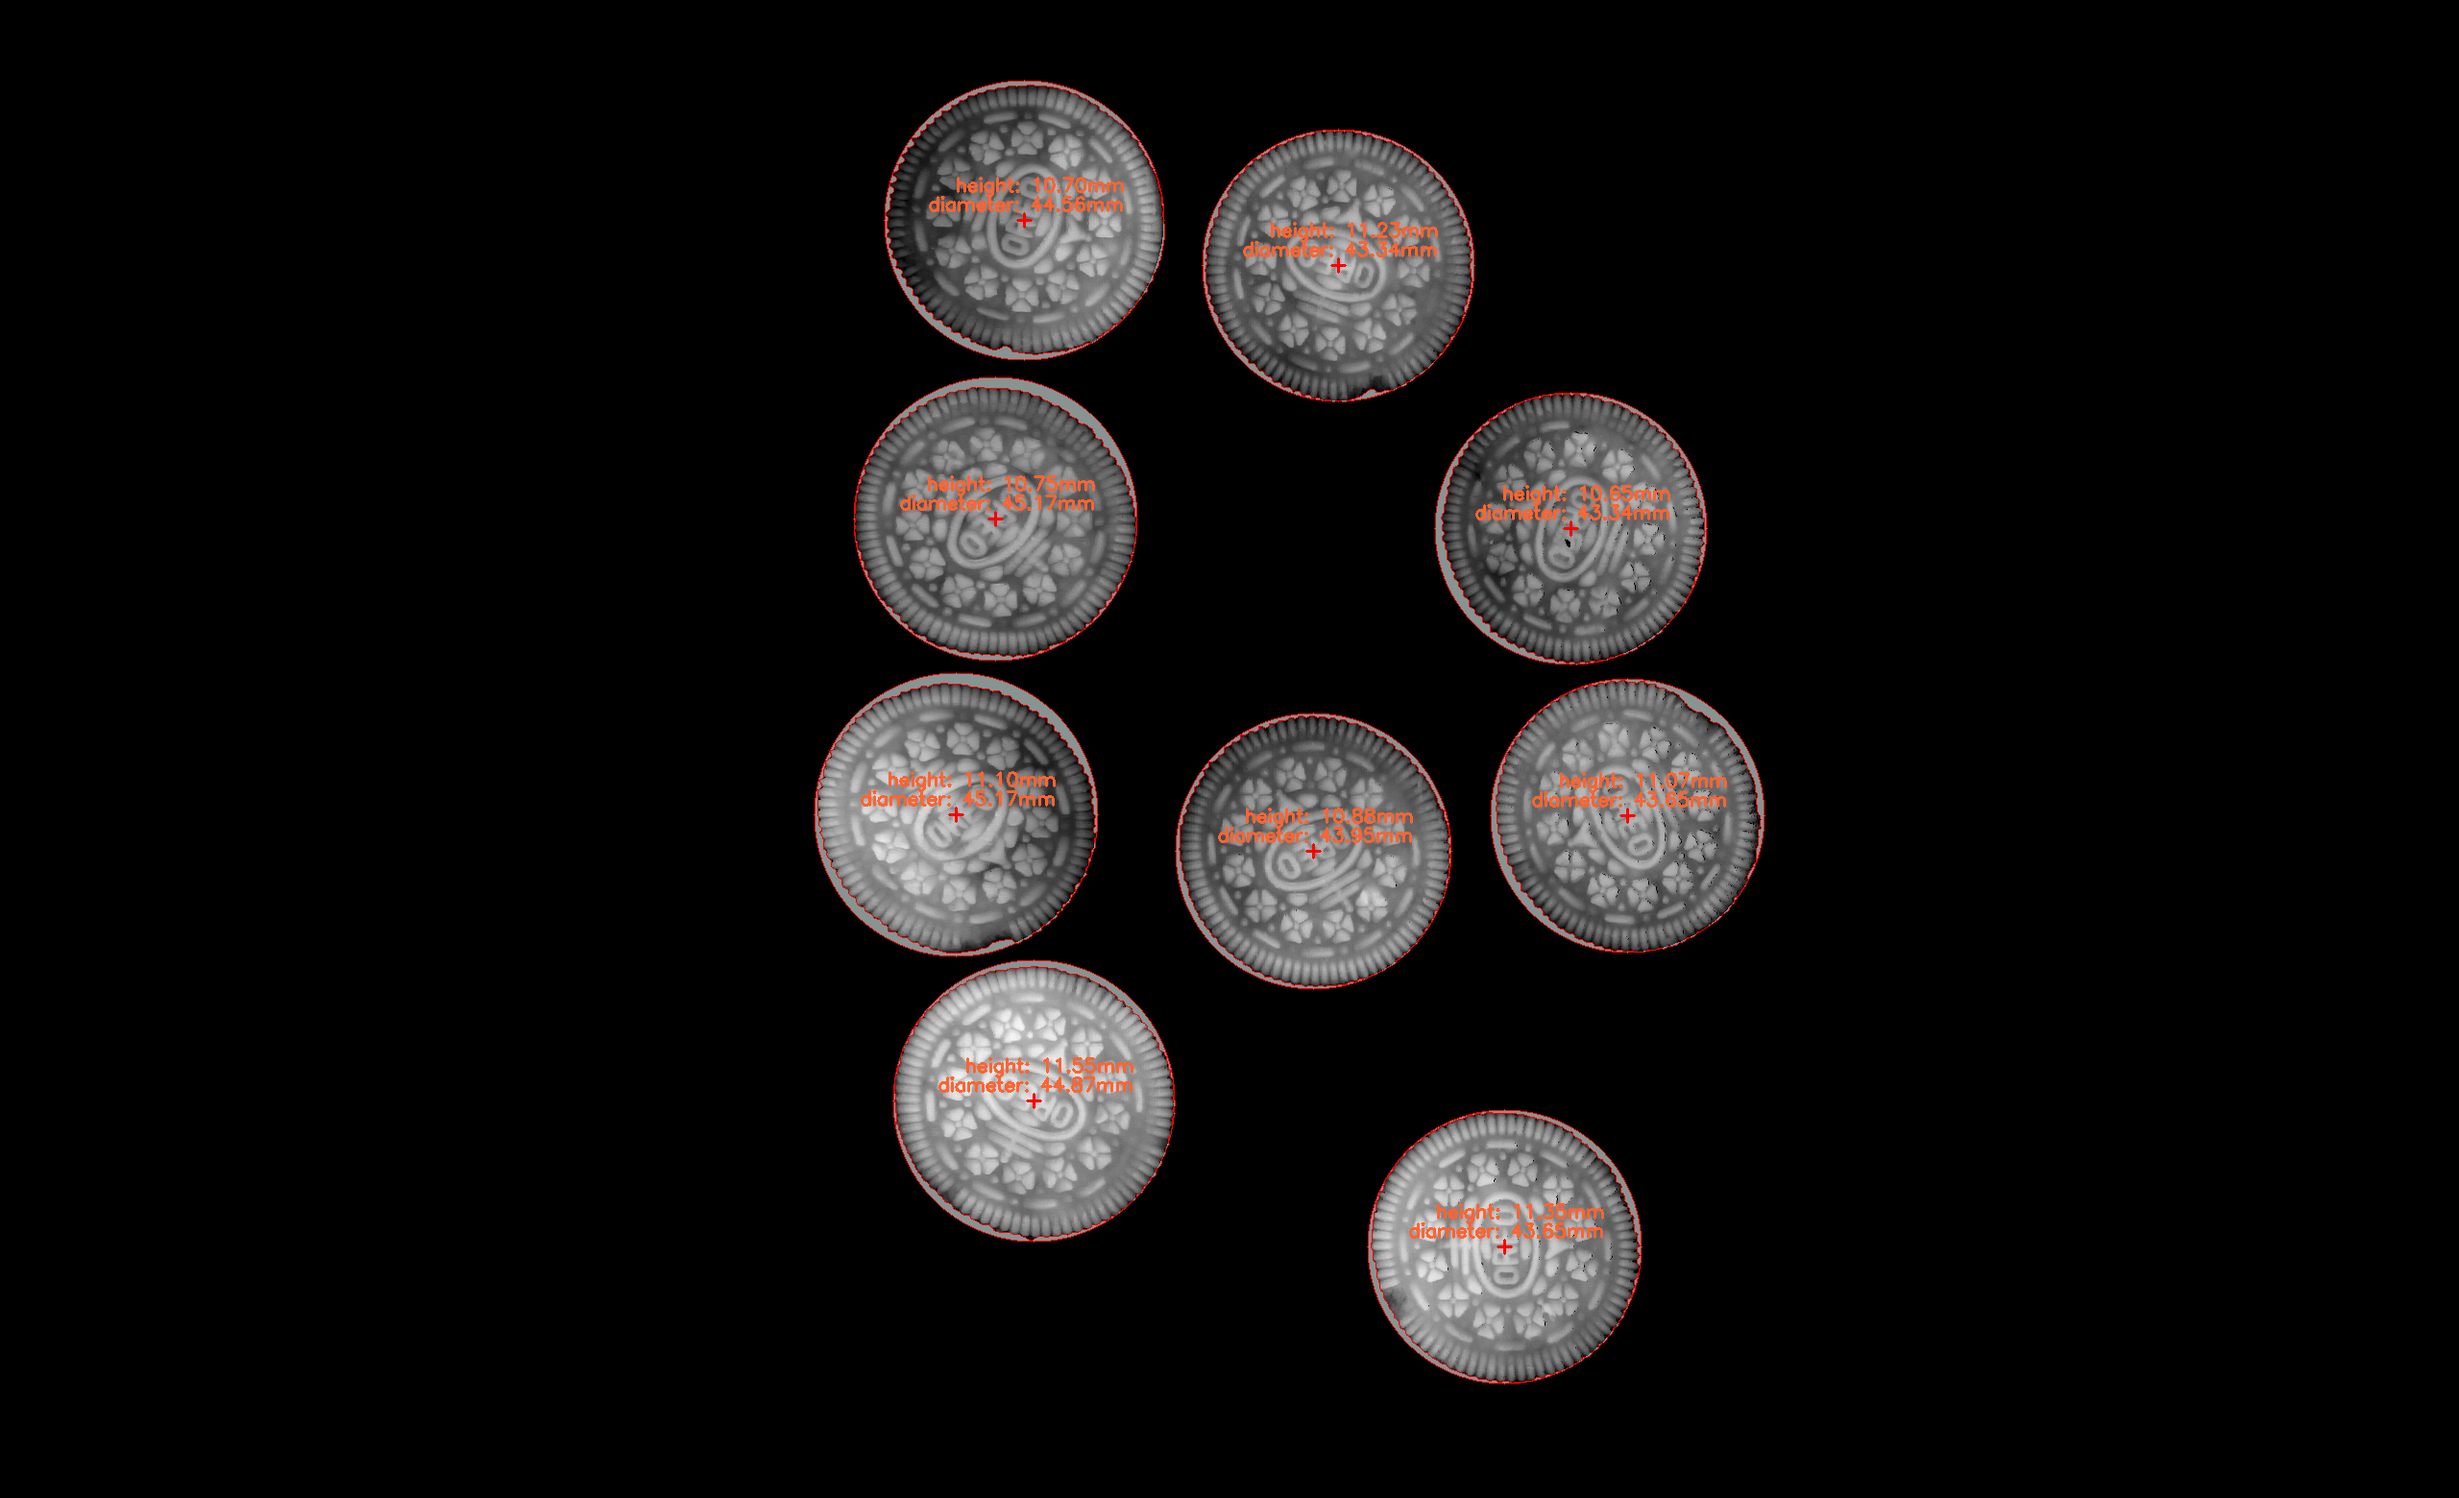
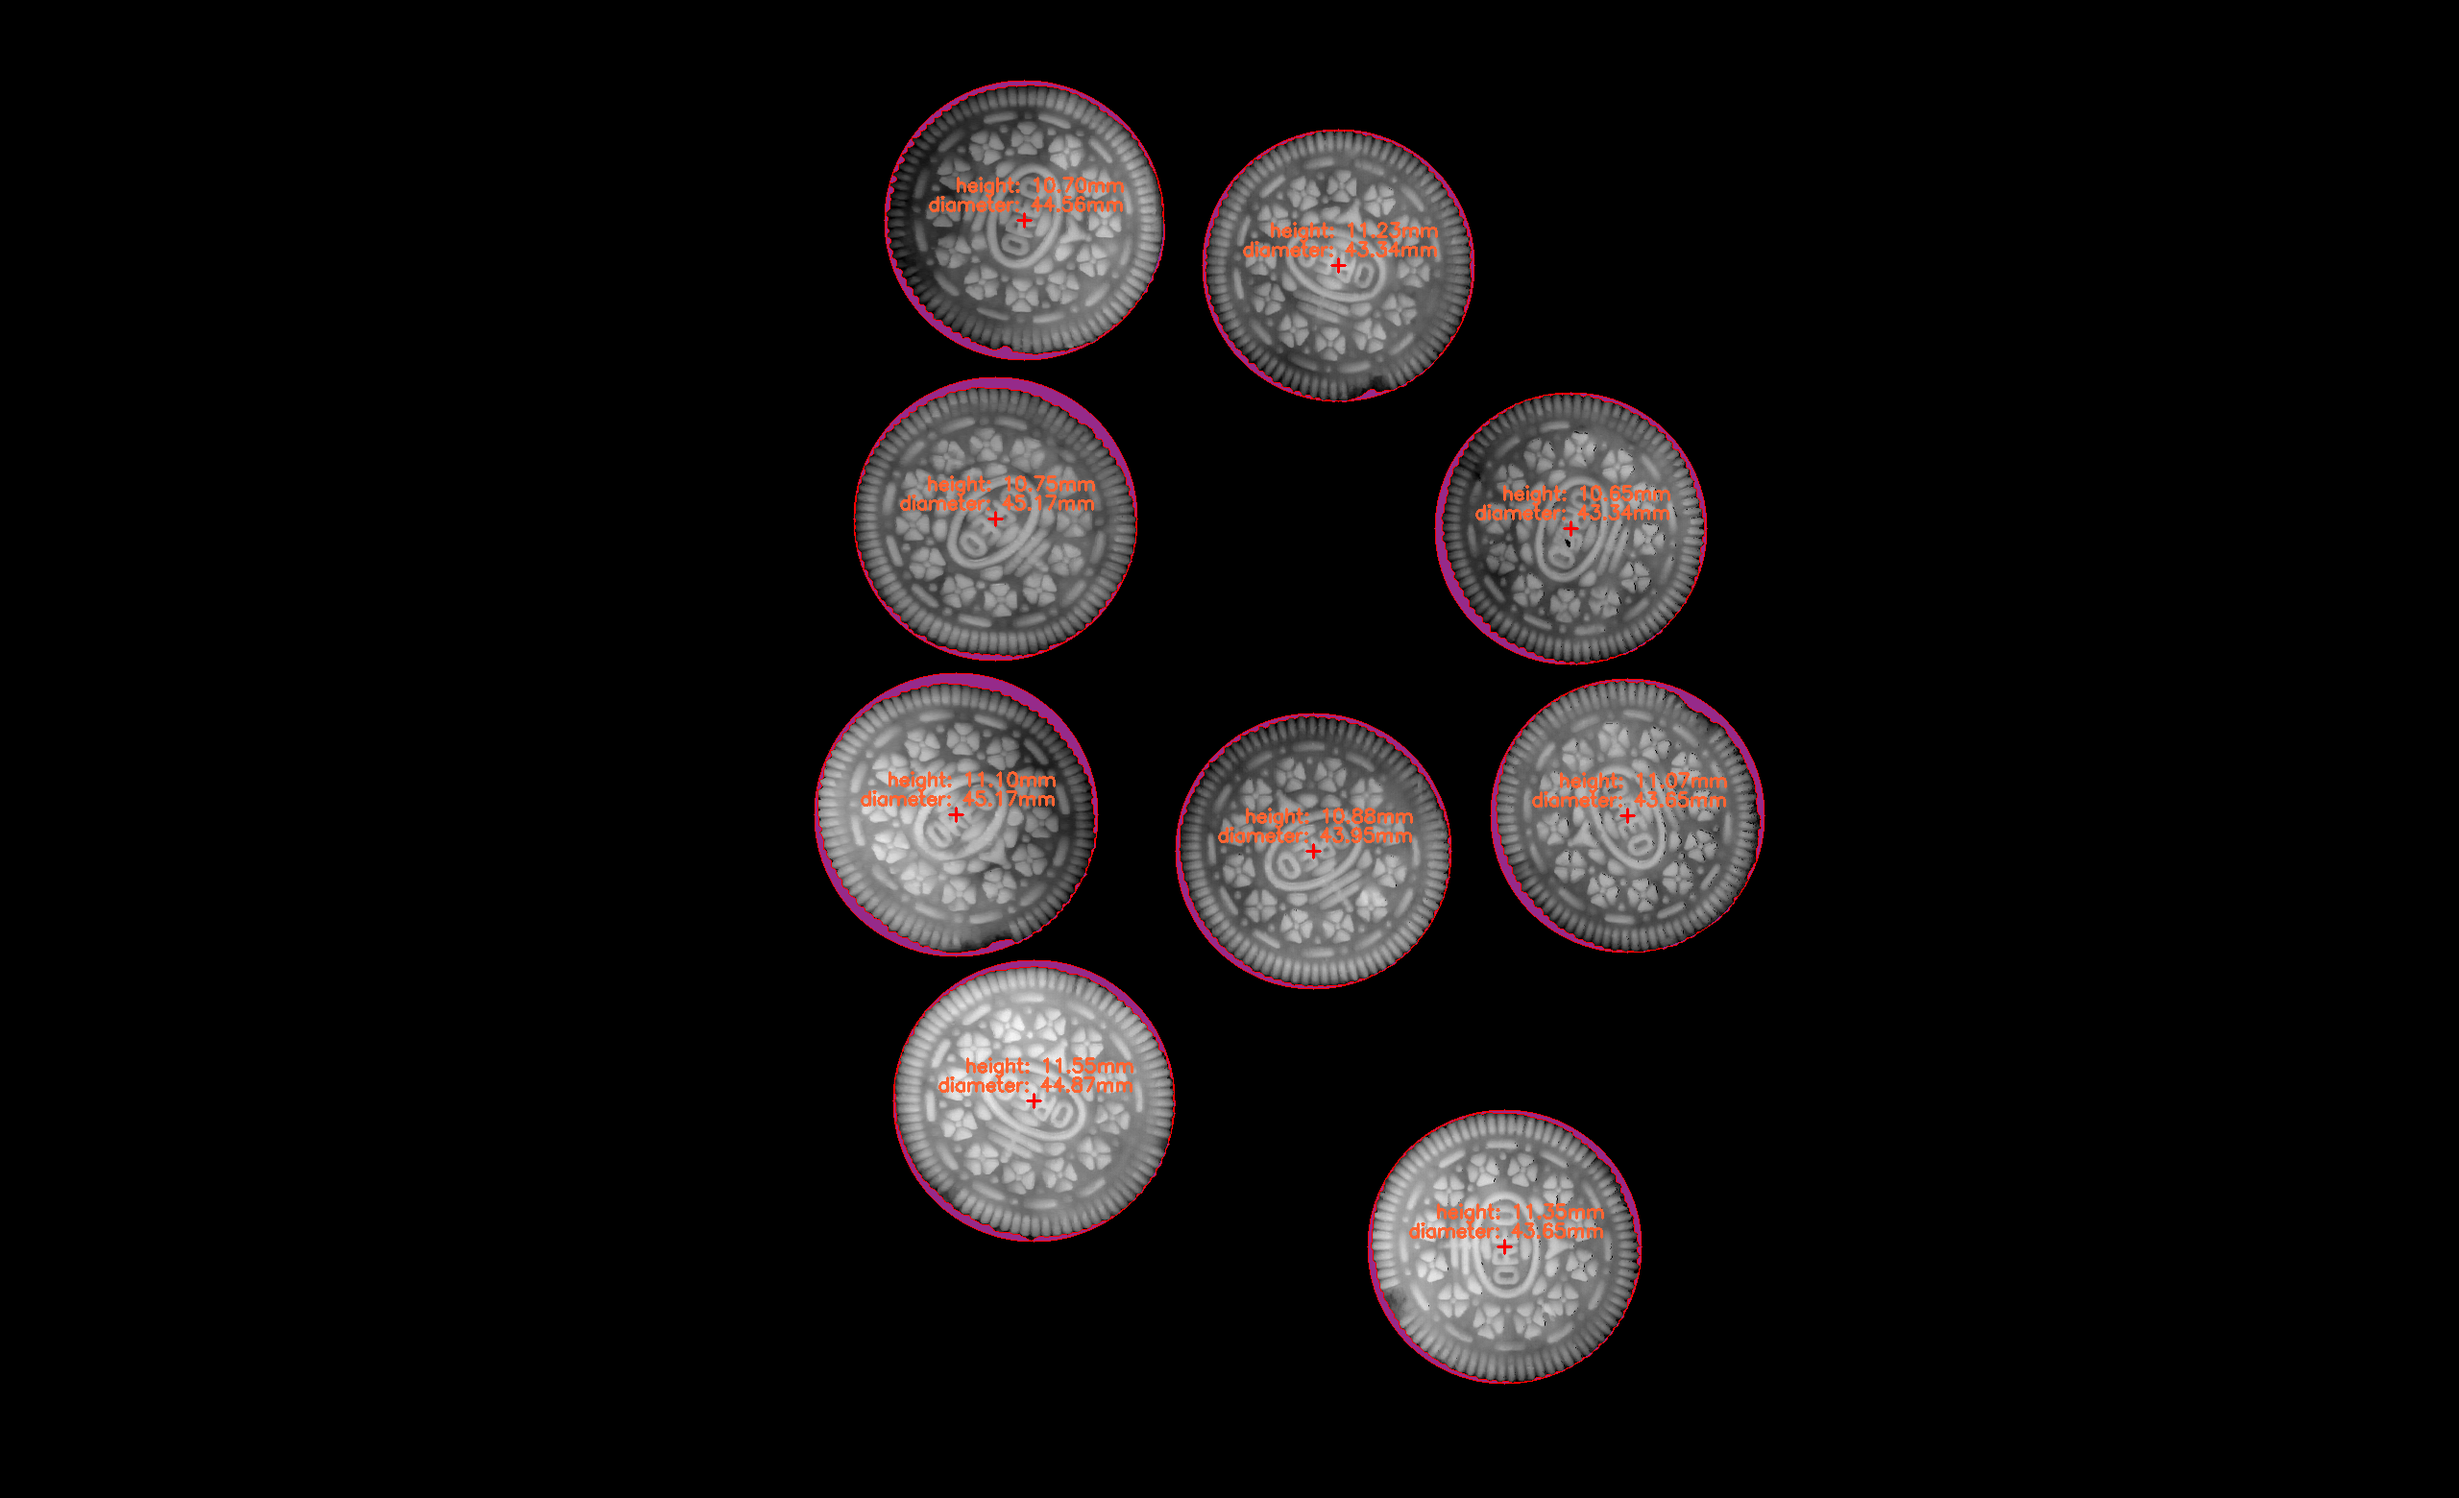
PPT展示用

diff --git a/project/3D相机二进制数据处理.py b/project/3D相机二进制数据处理.py
@@ -56,7 +56,7 @@ def dat2img(filename):
     return resized, img_height
 
 
-def demopreprocessing(img, img_height):
+def dimensionMeasurement(img, img_height):
     img_original = img.copy()
     img_uint8 = img.astype(np.uint8)  # 转换为整型
     img_info = img.shape
@@ -78,9 +78,8 @@ def demopreprocessing(img, img_height):
 
     # 寻找最外面的图像轮廓 返回修改后的图像 图像的轮廓  以及它们的层次
     contours, hierarchy = cv2.findContours(binary, cv2.RETR_EXTERNAL, cv2.CHAIN_APPROX_SIMPLE)
-
-    print('type(contours):', type(contours))
-    print('type(contours[0]):', type(contours[0]))
+    # print('type(contours):', type(contours))
+    # print('type(contours[0]):', type(contours[0]))
     print('len(contours):', len(contours))
 
     # 转换为RGB图
@@ -185,15 +184,15 @@ def demopreprocessing(img, img_height):
     cv2.waitKey()
     cv2.destroyAllWindows()
     cv2.imwrite(r'H:\GitHub\3DCamera\docs\photos\@output.png', output)
+    print('尺寸检测完成。')
 
 
-def pattern(img):
+def patternMeasurement(img):
     img_original = img.copy()
     img_uint8 = img.astype(np.uint8)  # 转换为整型
     img_info = img.shape
     image_height = img_info[0]
     image_weight = img_info[1]
-    # mask1 = np.zeros((img.shape[0], img.shape[1], 3), np.uint8)
 
     # 二值化处理:自适应，阈值取相邻区域的平均值
     adaptive1 = cv2.adaptiveThreshold(img_uint8, 255, cv2.ADAPTIVE_THRESH_MEAN_C, cv2.THRESH_BINARY, 11, 2)
@@ -219,23 +218,24 @@ def pattern(img):
 
     # 转换为RGB图
     img = np.zeros((img.shape[0], img.shape[1], 3), np.uint8)
-    img[:, :, 0] = adaptive1
-    img[:, :, 1] = adaptive1
-    img[:, :, 2] = adaptive1
+    img[:, :, 0] = img_uint8
+    img[:, :, 1] = img_uint8
+    img[:, :, 2] = img_uint8
     # plt.imshow(img)
     # plt.show()
 
     # 绘制轮廓
     contours, hierarchy = cv2.findContours(adaptive1, cv2.RETR_TREE, cv2.CHAIN_APPROX_SIMPLE)
     cv2.drawContours(img, contours, -1, (0, 0, 255), 1)
-    print(len(contours))
+    print('len(contours):', len(contours))
     cv2.imshow("img-contours", img)
     cv2.waitKey(0)
     cv2.imwrite(r'H:\GitHub\3DCamera\docs\photos\contours.png', img)
+    print('图案检测完成。')
 
 
 if __name__ == '__main__':
     img, img_height = dat2img(r'H:\GitHub\3DCamera\docs\data\0.dat')
-    # demopreprocessing(img, img_height)
-    pattern(img)
-    print('完成')
+    dimensionMeasurement(img, img_height)
+    patternMeasurement(img)
+    print('程序运行结束。')

diff --git a/project/test.py b/project/test.py
@@ -56,7 +56,7 @@ def dat2img(filename):
     return resized, img_height
 
 
-def demopreprocessing(img, img_height):
+def dimensionMeasurement(img, img_height):
     img_original = img.copy()
     img_uint8 = img.astype(np.uint8)  # 转换为整型
     img_info = img.shape
@@ -78,9 +78,8 @@ def demopreprocessing(img, img_height):
 
     # 寻找最外面的图像轮廓 返回修改后的图像 图像的轮廓  以及它们的层次
     contours, hierarchy = cv2.findContours(binary, cv2.RETR_EXTERNAL, cv2.CHAIN_APPROX_SIMPLE)
-
-    print('type(contours):', type(contours))
-    print('type(contours[0]):', type(contours[0]))
+    # print('type(contours):', type(contours))
+    # print('type(contours[0]):', type(contours[0]))
     print('len(contours):', len(contours))
 
     # 转换为RGB图
@@ -185,15 +184,15 @@ def demopreprocessing(img, img_height):
     cv2.waitKey()
     cv2.destroyAllWindows()
     cv2.imwrite(r'H:\GitHub\3DCamera\docs\photos\@output.png', output)
+    print('尺寸检测完成。')
 
 
-def pattern(img):
+def patternMeasurement(img):
     img_original = img.copy()
     img_uint8 = img.astype(np.uint8)  # 转换为整型
     img_info = img.shape
     image_height = img_info[0]
     image_weight = img_info[1]
-    # mask1 = np.zeros((img.shape[0], img.shape[1], 3), np.uint8)
 
     # 二值化处理:自适应，阈值取相邻区域的平均值
     adaptive1 = cv2.adaptiveThreshold(img_uint8, 255, cv2.ADAPTIVE_THRESH_MEAN_C, cv2.THRESH_BINARY, 11, 2)
@@ -219,23 +218,24 @@ def pattern(img):
 
     # 转换为RGB图
     img = np.zeros((img.shape[0], img.shape[1], 3), np.uint8)
-    img[:, :, 0] = adaptive1
-    img[:, :, 1] = adaptive1
-    img[:, :, 2] = adaptive1
+    img[:, :, 0] = img_uint8
+    img[:, :, 1] = img_uint8
+    img[:, :, 2] = img_uint8
     # plt.imshow(img)
     # plt.show()
 
     # 绘制轮廓
     contours, hierarchy = cv2.findContours(adaptive1, cv2.RETR_TREE, cv2.CHAIN_APPROX_SIMPLE)
     cv2.drawContours(img, contours, -1, (0, 0, 255), 1)
-    print(len(contours))
+    print('len(contours):', len(contours))
     cv2.imshow("img-contours", img)
     cv2.waitKey(0)
     cv2.imwrite(r'H:\GitHub\3DCamera\docs\photos\contours.png', img)
+    print('图案检测完成。')
 
 
 if __name__ == '__main__':
     img, img_height = dat2img(r'H:\GitHub\3DCamera\docs\data\0.dat')
-    # demopreprocessing(img, img_height)
-    pattern(img)
-    print('完成')
+    dimensionMeasurement(img, img_height)
+    patternMeasurement(img)
+    print('程序运行结束。')
